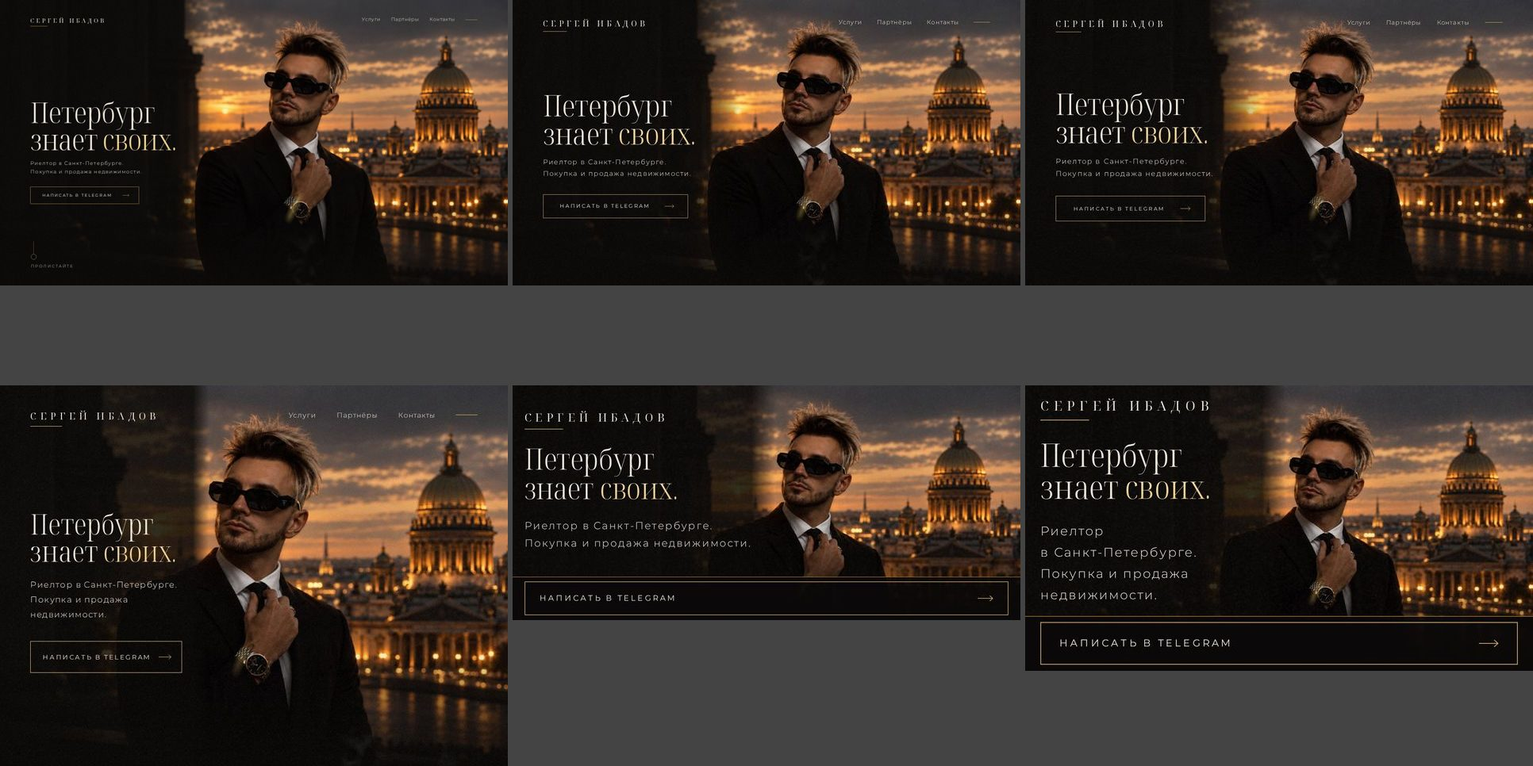
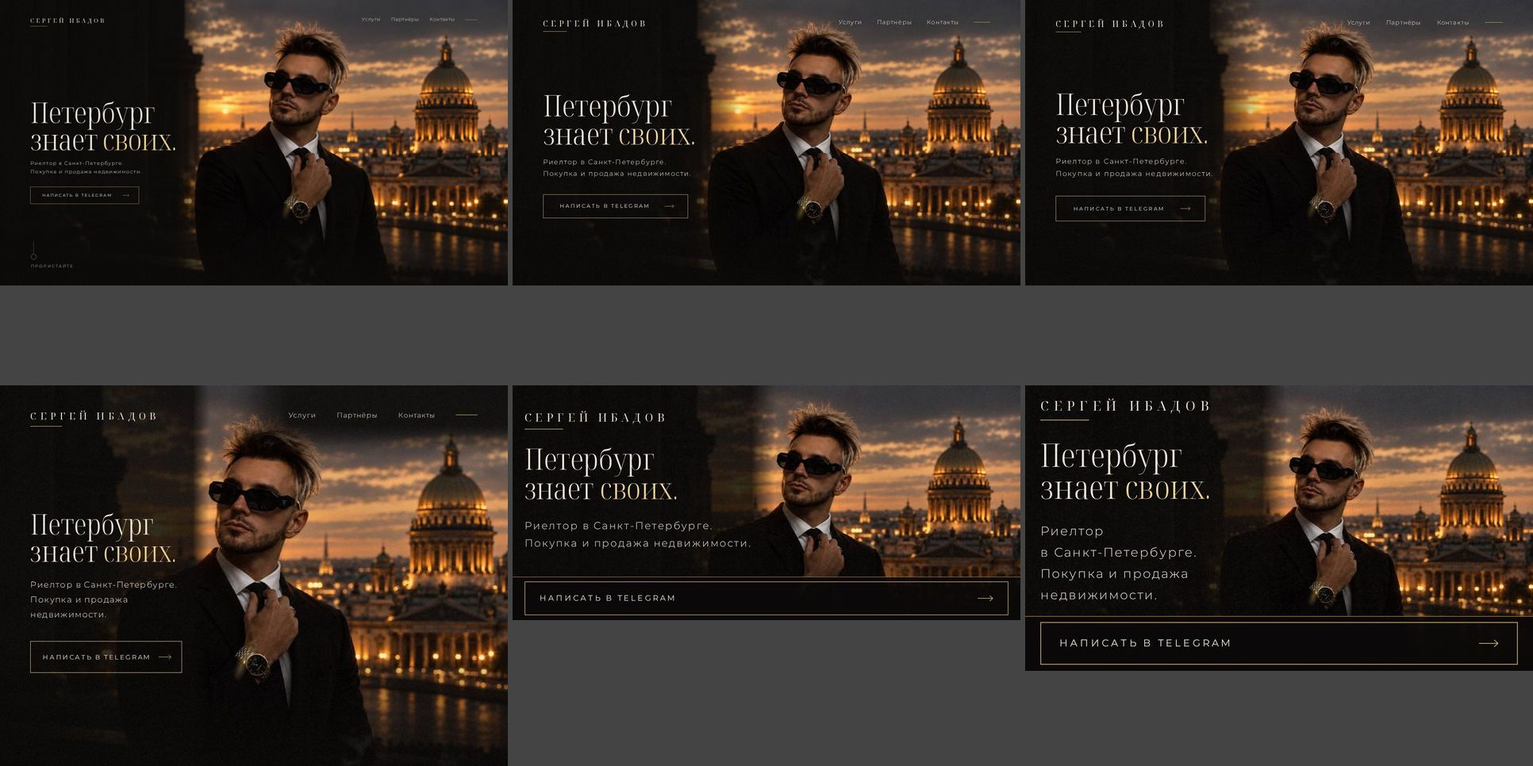
style(design): FINDING-005..008 — the first screen in near-square windows
- Lying down, narrower than 1.55:1: the headline shrinks with the room
  before the face, never under 1.5rem, keeping its two lines' height; in
  windows under 641px the lead wraps before the face too.
- Standing, too short for its width: the phone picture narrows, centred,
  until the face ends 40px above the name; its sides melt into ink, never
  under half the screen. The text never starts higher than that.
- Browser zoom of 200%+ on a near-square window: the text stands under
  the face across the screen.
- Narrow low windows: the hair reached the menu (2.7:1); a scrim from the
  top right corner keeps it at 12.8:1 or more.
- The glint box measures its place in the scene, so it stays on the watch
  in the narrowed phone picture.
- New check tests/e2e/hero-near-square.spec.ts; DESIGN.md rules, Visual
  check report and screenshots updated; the TODO item closed.

Changed region(s): [[0.1553, 0.4969, 0.3416, 0.5901], [0.1863, 0.2484, 0.2174, 0.2795]]

diff --git a/tests/e2e/hero-near-square.spec.ts b/tests/e2e/hero-near-square.spec.ts
@@ -1,0 +1,158 @@
+// The first screen in windows nearly as wide as tall, and on short phones. Lying down, the headline
+// shrinks with the room before the face, never under 1.5rem, still 1.4 times the lead or more.
+// Standing up, the phone picture narrows until the face ends above the text, and the text still
+// fits the screen. Browser zoom of 200% and more leaves no room beside the face: the text stands
+// under it. Narrow low windows put the hair under the menu: the menu keeps 7:1 there.
+import { expect, test, type Page } from '@playwright/test';
+import sharp from 'sharp';
+import { textToFace } from '../../src/blocks/images/catalog';
+import { fmt, gap, inPageImages, layout, open, sceneMarks, type Box } from './helpers';
+
+const LYING = [
+  [768, 560],
+  [768, 600],
+  [768, 700],
+  [768, 760],
+  [800, 700],
+  [900, 800],
+  [1000, 900],
+  [1024, 900],
+  [1024, 1000],
+] as const;
+const STANDING = [
+  [320, 568],
+  [360, 600],
+  [412, 500],
+  [600, 700],
+  [768, 900],
+  [800, 900],
+  [900, 1000],
+  [1000, 1000],
+  [1300, 1400],
+] as const;
+// Window at zoom: 800×700 and 1024×1000 at 200%, 1040×800 at 200%, 800×700 and 1024×900 at 300%.
+const ZOOMED = [
+  [400, 350],
+  [512, 500],
+  [520, 400],
+  [266, 233],
+  [341, 300],
+] as const;
+const MENU = [
+  [768, 520],
+  [800, 600],
+  [800, 700],
+  [880, 600],
+  [1000, 680],
+  [1024, 768],
+] as const;
+
+/** Letter boxes of the first screen's name, headline and lead, line by line. */
+const letters = (page: Page) =>
+  page.evaluate(() =>
+    ['credit', 'headline', 'lead'].flatMap((part) => {
+      // Text nodes only: a block line's own box runs the column's full width.
+      const walk = document.createTreeWalker(document.querySelector(`[data-scene="hero"] [data-part="${part}"]`)!, NodeFilter.SHOW_TEXT);
+      const out: { part: string; x0: number; y0: number; x1: number; y1: number }[] = [];
+      for (let n = walk.nextNode(); n; n = walk.nextNode()) {
+        if (!n.textContent!.trim()) continue;
+        const r = document.createRange();
+        r.selectNodeContents(n);
+        for (const q of r.getClientRects()) if (q.width > 1) out.push({ part, x0: q.left, y0: q.top, x1: q.right, y1: q.bottom });
+      }
+      return out;
+    }),
+  );
+
+const clearOfFace = async (page: Page) => {
+  const l = await layout(page);
+  const marks = sceneMarks('hero', l.portrait, await page.evaluate(inPageImages, 'hero'));
+  const boxes = await letters(page);
+  expect(boxes.length).toBeGreaterThan(0);
+  for (const b of boxes) {
+    expect.soft(gap(b, marks.face!), `${b.part} (${fmt(b)}) to the face (${fmt(marks.face!)}), px`).toBeGreaterThanOrEqual(textToFace.anywhere - 0.01);
+  }
+  return { l, marks };
+};
+
+for (const [w, h] of LYING) {
+  test.describe(`${w}x${h}`, () => {
+    test.use({ viewport: { width: w, height: h }, reducedMotion: 'reduce' });
+    test('lying down: the text clear of the face, the headline still the largest', async ({ page }) => {
+      await open(page);
+      const { l } = await clearOfFace(page);
+      expect(l.portrait).toBe(false);
+      const [headline, lead] = await page.evaluate(() =>
+        ['headline', 'lead'].map((p) => Number.parseFloat(getComputedStyle(document.querySelector(`[data-scene="hero"] [data-part="${p}"]`)!).fontSize)),
+      );
+      expect.soft(headline, 'headline size, px (never under 1.5rem)').toBeGreaterThanOrEqual(24 - 0.01);
+      expect.soft(headline / lead!, 'headline to lead size').toBeGreaterThanOrEqual(1.4);
+    });
+  });
+}
+
+for (const [w, h] of STANDING) {
+  const phone = w < 768;
+  test.describe(`${w}x${h}`, () => {
+    test.use({ viewport: { width: w, height: h }, reducedMotion: 'reduce', isMobile: phone, hasTouch: phone });
+    test('standing: the text clear of the face, the picture centred, the first screen one screen tall', async ({ page }) => {
+      await open(page);
+      const { l, marks } = await clearOfFace(page);
+      expect(l.portrait).toBe(true);
+      const hero = l.scenes.find((s) => s.name === 'hero')!;
+      expect.soft(hero.bottom - hero.top, 'first screen height, px').toBeCloseTo(h, 0);
+      for (const f of marks.frames) {
+        expect.soft(f.x0 + f.x1, `phone window (${fmt(f)}) centred: left + right, px`).toBeCloseTo(l.vw, 0);
+        expect.soft(f.y0, 'phone window top, px (pinned to the top)').toBeCloseTo(0, 0);
+      }
+      const inside = (name: string, b: Box) => {
+        const f = marks.frames[1]!;
+        expect.soft(Math.min(b.x0 - f.x0, f.x1 - b.x1, b.y0 - f.y0), `${name} (${fmt(b)}) inside the picture (${fmt(f)}), px`).toBeGreaterThanOrEqual(0);
+      };
+      inside('face', marks.face!);
+      inside('dome', marks.dome!);
+    });
+  });
+}
+
+for (const [w, h] of ZOOMED) {
+  test.describe(`${w}x${h}`, () => {
+    test.use({ viewport: { width: w, height: h }, reducedMotion: 'reduce' });
+    test('browser zoom: the text under the face, clear of it', async ({ page }) => {
+      await open(page);
+      await clearOfFace(page);
+    });
+  });
+}
+
+// WCAG relative luminance; the 99th percentile under each link with its letters hidden.
+const linear = (v: number) => (v / 255 <= 0.04045 ? v / 255 / 12.92 : ((v / 255 + 0.055) / 1.055) ** 2.4);
+const luminance = (r: number, g: number, b: number) => 0.2126 * linear(r) + 0.7152 * linear(g) + 0.0722 * linear(b);
+const TEXT = luminance(0xed, 0xe5, 0xd8);
+
+for (const [w, h] of MENU) {
+  test.describe(`${w}x${h}`, () => {
+    test.use({ viewport: { width: w, height: h }, reducedMotion: 'reduce' });
+    test('narrow low window: the menu reads at 7:1 over the hair', async ({ page }) => {
+      await open(page);
+      const links = await page.evaluate(() =>
+        [...document.querySelectorAll('[data-scene="hero"] [data-part="nav"] a')].map((a) => {
+          const r = document.createRange();
+          r.selectNodeContents(a);
+          const q = r.getBoundingClientRect();
+          return { text: a.textContent!.trim(), x: q.x, y: q.y, width: q.width, height: q.height };
+        }),
+      );
+      expect(links.length).toBe(3);
+      await page.addStyleTag({ content: '[data-part="nav"] a { color: transparent !important; transition: none !important }' });
+      for (const { text, ...clip } of links) {
+        const { data, info } = await sharp(await page.screenshot({ clip })).raw().toBuffer({ resolveWithObject: true });
+        const n = info.width * info.height;
+        const l = new Float64Array(n);
+        for (let i = 0; i < n; i++) l[i] = luminance(data[i * info.channels]!, data[i * info.channels + 1]!, data[i * info.channels + 2]!);
+        l.sort();
+        expect.soft((TEXT + 0.05) / (l[Math.floor(0.99 * (n - 1))]! + 0.05), `«${text}» contrast`).toBeGreaterThanOrEqual(7);
+      }
+    });
+  });
+}

diff --git a/src/blocks/accents/motion.ts b/src/blocks/accents/motion.ts
@@ -112,20 +112,22 @@ export function startAccents({ heroReady = Promise.resolve() }: AccentsOptions =
     });
   });
 
-  const measure = (g: Glint) => {
+  /** An element's place in its scene (the hero's phone frame may stand off the scene's edge). */
+  const offset = (g: Glint, el: El | null) => {
     let x = 0;
     let y = 0;
-    let e: El | null = g.layer;
-    while (e && e !== g.section) {
+    for (let e = el; e && e !== g.section; e = e.offsetParent as El | null) {
       x += e.offsetLeft;
       y += e.offsetTop;
-      e = e.offsetParent as El | null;
     }
-    g.ox = x;
-    g.oy = y;
+    return [x, y] as const;
+  };
+  const measure = (g: Glint) => {
+    [g.ox, g.oy] = offset(g, g.layer);
     g.ow = g.layer?.offsetWidth ?? 0;
-    g.cx = g.box.offsetLeft + g.box.offsetWidth / 2;
-    g.cy = g.box.offsetTop + g.box.offsetHeight / 2;
+    const [bx, by] = offset(g, g.box);
+    g.cx = bx + g.box.offsetWidth / 2;
+    g.cy = by + g.box.offsetHeight / 2;
   };
   /**
    * The box over the watch takes the same scale and shift the camera gives the watch's layer:

diff --git a/docs/designs/hero/visual-check.md b/docs/designs/hero/visual-check.md
@@ -5,10 +5,9 @@
 ## Итог
 
 - Первый экран повторяет кадр заказчика: композиция, цвет, шрифты, кнопка в золотой рамке. Тексты слово в слово по Брифу.
-- Найдено четыре дефекта. Все исправлены и проверены на скриншотах.
-- Один дефект оставлен: почти квадратные окна компьютера, подробно в разделе «Что остаётся».
+- Найдено восемь дефектов. Все исправлены и проверены на скриншотах. Четыре из них — в почти квадратных окнах и на коротких телефонах, пункты 5–8.
 - Оценка дизайна: B+ до правок, A− после. Шаблонности нет: A до и после.
-- Контраст текста первого экрана не ниже 7,6 к 1 на всех 13 экранах. Надпись «Пропустить» за весь фильм на компьютере и телефоне — не ниже 9,9 к 1.
+- Контраст текста первого экрана не ниже 7,6 к 1 на всех 13 экранах, на почти квадратных окнах и коротких телефонах — не ниже 8,0 к 1. Меню в узком окне — не ниже 12,8 к 1. Надпись «Пропустить» за весь фильм на компьютере и телефоне — не ниже 9,9 к 1.
 
 ## Как смотрели
 
@@ -23,6 +22,12 @@
 - Спокойную версию снимали на компьютере и на телефоне.
 - Расстояние от титра фильма до имени мерили на 12 размерах телефона и планшета.
 - Перенос подзаголовка проверили на 22 размерах окон лёжа.
+- Почти квадратные окна и короткие телефоны:
+  - лёжа: окна шириной 768–1100px и высотой 560–1000px;
+  - стоймя: окна от 300×560 до 1300×1400, среди них 360×600 и 320×568;
+  - увеличение браузера 125–300% для окон 800×700, 900×800, 1024×900, 1024×1000, 1000×1000 и 1280×1024;
+  - контраст меню — на окнах лёжа от 768×520 до 1920×1080.
+- Мерили буквы, а не блоки: расстояние от каждой строки имени, заголовка и подзаголовка до лица.
 - Кадры заказчика с балконом и со столом поставили рядом со страницей.
 - Второе мнение: другая модель и отдельный проверяющий прочли код ветки.
 
@@ -52,7 +57,28 @@
 4. В окне лёжа уже 768px имя стояло слева вверху, как на компьютере, хотя меню там уже нет.
    - По дизайн-системе на телефоне лёжа имя стоит над заголовком. Теперь так.
 
-Правила 1, 2 и 3 дописаны в дизайн-систему. Правило 2 — ещё и в Бриф, раздел «Вступление».
+5. В почти квадратном окне лёжа заголовок доходил до лица.
+   - Где: окна от 768×560 до 1024×1000. «Петербург» и «знает своих.» шли по лицу, расстояние 0px.
+   - Теперь заголовок мельчает вместе с местом до лица, но не меньше 1,5rem. Так он всё ещё в 1,4 раза крупнее подзаголовка.
+   - Пример: в 800×700 заголовок 34px вместо 47px, в 1024×1000 — 35px вместо 56px. Он держит высоту двух строк, и подзаголовок к лицу не поднимается.
+   - В окне ниже 641px подзаголовок тоже переносится до лица.
+   - Расстояние от заголовка до лица теперь не меньше 37px, обычно 42px и больше. От подзаголовка — не меньше 34px.
+   - Экраны из Брифа не изменились: в 1024×768 заголовок как был.
+6. В почти квадратном окне стоймя и на коротком телефоне имя и заголовок ложились на лицо.
+   - Где: окна от 412×500 до 1000×1000 и 1300×1400, телефоны 360×600 и 320×568. Там кадр во всю ширину, и лицо опускается до текста.
+   - Теперь кадр сужается по центру, пока лицо не кончится за 40px до имени. Бока кадра тают в чёрное. Уже половины экрана кадр не бывает.
+   - Имя теперь в 38px от лица, заголовок — в 82px и дальше. Первый экран по-прежнему в один экран, прокрутки нет.
+   - Экраны Брифа стоймя не изменились: 360×780, 375×667, 390×844, 430×932, 768×1024, 820×1180.
+   - Блик на часах идёт за суженным кадром: расхождение не больше 0,3px.
+7. В узком окне лёжа меню лежало на волосах Сергея.
+   - Где: окна шириной 768–1000px и высотой до 760px. Контраст «Услуги» падал до 2,7 к 1, по правилу сайта нужно 7 к 1.
+   - Теперь в окне уже 1,55 к 1 под меню затемнение от верхнего и правого края экрана. За меню оно плавно сходит на нет. Контраст не ниже 12,8 к 1.
+   - На широких экранах меню как на кадре заказчика, без затемнения.
+8. При увеличении браузера 200–300% на почти квадратном окне текст ложился на лицо.
+   - Где: 800×700, 900×800, 1024×1000 и 1040×800 при 200% и больше, 1024×900 — при 250% и больше. Рядом с лицом не было места даже на одно слово: текст шёл по слову в строку, по лицу, расстояние 0–27px.
+   - Теперь текст стоит под лицом во всю ширину, на затемнении. Расстояние до лица не меньше 38px. Первый экран прокручивается.
+
+Правила 1, 2, 3 и 5–8 дописаны в дизайн-систему. Правило 2 — ещё и в Бриф, раздел «Вступление».
 
 ## Оставлено как есть
 
@@ -64,13 +90,17 @@
 
 ## Что остаётся
 
-- Почти квадратные окна компьютера, от 800×700 до 1024×1000.
-  - Слово «Петербург» шире колонны текста, и заголовок доходит до лица Сергея.
-  - В узких окнах лёжа, 600–767px, имя и заголовок занимают по две-три строки.
-  - Такие окна бывают, только если окно браузера сузили вручную. Нужно решение о размере заголовка. До выпуска не обязательно.
-- iPhone, Safari и Instagram не проверены: всё снято в Chromium. Поднятие фильма над именем и кнопку после касания покажет приёмка на iPhone.
-- Телефоны стоймя ниже 640px не проверяли. На них фильм поднимается ближе к «Пропустить».
+- iPhone, Safari и Instagram не проверены: всё снято в Chromium. Поднятие фильма над именем, кнопку после касания и суженный кадр покажет приёмка на iPhone.
+- В почти квадратном окне стоймя имя стоит в 38px от лица, а не в 40px. Это допустимо: 40px нужны на экранах Брифа, 32px — везде. На экранах Брифа имя дальше 52px.
+- В почти квадратном окне лёжа уже 768px имя занимает две строки: в одну оно дошло бы до лица.
+- При увеличении 200% и больше первый экран прокручивается. Подзаголовок и часть заголовка видны после прокрутки.
+- При увеличении 300% окна 800×700 надпись кнопки в полосе телефона выходит за её рамку. Это полоса, а не первый экран. На телефоне 320×568 надпись в рамке.
 - Скорость мерили на сервере в той же машине. Первый экран без фильма готов за 0,6 с на компьютере, сдвигов нет. В мобильной сети будет дольше.
+
+Короткие телефоны проверены: 360×600 и 320×568.
+
+- Титр фильма весь фильм стоит ниже «Пропустить»: на 135px и больше в 360×600, на 82px и больше в 320×568.
+- Титр кончается за 23–25px над именем. Имя проявляется под титром.
 
 ## Скриншоты и клипы
 
@@ -80,6 +110,11 @@
 - Пункт 2, телефон 360×780 на 6,8 с: ![Титр и имя до и после](visual-check/finding-002-before-after.jpg)
 - Пункт 3, полоса телефона после касания: ![Кнопка до и после](visual-check/finding-003-before-after.jpg)
 - Пункты 1 и 4, окно 700×600: ![Окно до и после](visual-check/finding-004-before-after.jpg)
+- Пункт 5, окна 800×700 и 1024×1000: ![Почти квадратное окно лёжа до и после](visual-check/finding-005-before-after.jpg)
+- Пункт 6, окна 1000×1000 и 900×1000: ![Почти квадратное окно стоймя до и после](visual-check/finding-006-before-after.jpg)
+- Пункт 6, телефон 360×600: ![Короткий телефон до и после](visual-check/finding-006-phone-before-after.jpg)
+- Пункт 7, окно 880×600: ![Меню до и после](visual-check/finding-007-before-after.jpg)
+- Пункт 8, окна 800×700 и 1024×1000 при увеличении 200%: ![Увеличение браузера до и после](visual-check/finding-008-before-after.jpg)
 
 Как сейчас:
 
@@ -93,6 +128,7 @@
 - Вступление на телефоне: ![Вступление 390×844](visual-check/intro-phone-390x844.jpg)
 - Вступление на телефоне лёжа: ![Вступление 740×360](visual-check/intro-sideways-740x360.jpg)
 - Вступление в узком окне: ![Вступление 700×600](visual-check/intro-narrow-window-700x600.jpg)
+- Вступление на коротком телефоне, титр и «Пропустить»: ![Вступление 360×600](visual-check/intro-short-phone-360x600.jpg)
 - «Пропустить» крупно в самые светлые моменты: ![Пропустить крупно](visual-check/skip-close-ups.jpg)
 - Переход на компьютере: ![Переход 1440×900](visual-check/transition-desktop-1440x900.jpg)
 - Переход на телефоне: ![Переход 390×844](visual-check/transition-phone-390x844.jpg)
@@ -111,7 +147,8 @@
 
 - `paneweb down`, затем `paneweb up` (сборка сайта для проверок), после каждой правки: код выхода 0.
 - `bun test ./tests/html.test.ts`: код выхода 0, 11 прошли.
-- `bunx playwright test tests/e2e/hero-lead.spec.ts tests/e2e/nojs.spec.ts tests/e2e/seam.spec.ts tests/e2e/design-check.spec.ts --project layout`: код выхода 0, 41 прошли.
-- `bunx playwright test tests/e2e/intro.spec.ts tests/e2e/calm.spec.ts --no-deps`: код выхода 0, 35 прошли.
-- `bunx playwright test tests/e2e/intro.spec.ts --no-deps -g "portrait|reads at 7:1|whole film" --repeat-each 2`: код выхода 0, 8 прошли. Новая проверка не плавает.
+- `bun run test:unit`: код выхода 0, 186 прошли.
+- `bunx playwright test tests/e2e/hero-near-square.spec.ts tests/e2e/hero-lead.spec.ts tests/e2e/nojs.spec.ts tests/e2e/seam.spec.ts tests/e2e/design-check.spec.ts tests/e2e/phone.spec.ts tests/e2e/scripts.spec.ts --project layout`: код выхода 0, 91 прошли.
+- `bunx playwright test tests/e2e/intro.spec.ts tests/e2e/calm.spec.ts tests/e2e/smooth.spec.ts --no-deps`: код выхода 0, 36 прошли.
+- `bunx playwright test tests/e2e/hero-near-square.spec.ts --project layout` на коде до правок 5–8: код выхода 1, 23 из 24 тогдашних проверок упали. Новая проверка ловит эти дефекты.
 - `bunx tsc --noEmit`: код выхода 1. Четыре старые ошибки `TS2307` в `src/blocks/card/index.ts` и `src/blocks/contact/index.ts`. Эти файлы ветка не трогала. В изменённых файлах ошибок нет.

diff --git a/DESIGN.md b/DESIGN.md
@@ -212,6 +212,8 @@ components:
 - Слово через дефис не разрываем, предлог из одной буквы не отрываем от следующего слова. В узкой колонке подзаголовок переносится так: «Риелтор / в Санкт-Петербурге.», не «Санкт- / Петербурге.». Исключение — окно лёжа уже 500px (увеличение браузера 250–300%): там колонка уже названия города.
 - `display` и `numeral` на компьютере доходят до 6,75rem и 10rem — сознательно. Страница — плакат и фильм, а не документ.
 - Заголовок первого экрана — две строки, как на кадре заказчика: первое слово, затем остальные. Ему можно шире `text-column`, до 48rem, но не ближе 40px к лицу.
+- В окне лёжа уже 1,55 к 1 заголовок мельчает вместе с местом до лица: его длинная строка «знает своих.» кончается за 40px до лица. Меньше 1,5rem он не бывает: так он всё ещё в 1,4 раза крупнее подзаголовка. Высоту двух строк он держит, и подзаголовок к лицу не поднимается.
+- В таком окне ниже 641px подзаголовок тоже переносится до лица.
 - `nav` — меню первого экрана, строчными, разрядка 0,08em.
 - Курсив не используем. Акцент делают размер и место в кадре.
 
@@ -240,12 +242,14 @@ components:
 - Заголовок, подзаголовок и кнопка — по центру высоты, в колонке слева. Подзаголовок — две строки: кто он, потом чем занимается.
 - Подсказка «Пролистайте» внизу слева: линия `gold-deep`, кружок `text-muted`, подпись `label`. Только на экранах от 800px высотой.
 - На телефоне лёжа меню и подсказки нет, имя стоит над заголовком.
+- Увеличение браузера от 200% на почти квадратном окне (лёжа ниже 501px, не шире 4:3): рядом с лицом нет места даже на одно слово. Текст стоит под лицом, во всю ширину, на затемнении. Первый экран прокручивается.
 
 Сцена «Купить / Продать» в широкой схеме — кадр со столом от левого края. Колонна текста кончается за 40px до часов.
 
 Вертикальная схема:
 
 - Отдельная вертикальная композиция из тех же слоёв. Сергей сверху или по центру, текст в нижней трети.
+- На первом экране окна телефона во всю ширину, прижаты к верху. Если экран низок для своей ширины (почти квадратное окно, короткий телефон), кадр сужается по центру, пока лицо не кончится за 40px до имени. Бока кадра тают в `ink`. Уже половины экрана кадр не бывает: дальше первый экран прокручивается, а текст всё равно начинается за 40px под лицом.
 - Меню и подсказки «Пролистайте» нет: имя стоит над заголовком.
 - Поля `gutter-phone` на телефоне, `gutter-desktop` на планшете.
 - На планшете стоймя полосы нет: кнопка стоит в первом экране и финале.
@@ -314,7 +318,8 @@ components:
 - Только на первом экране, в широкой схеме, справа вверху. На телефоне, в окне уже 768px и в вертикальной схеме меню нет.
 - Три ссылки `nav` цвета `text` на сцены страницы: «Услуги», «Партнёры», «Контакты». За ними линия `gold` 44px.
 - Наведение: текст `gold-bright`. Фокус — как у кнопки. Высота ссылки не меньше 44px.
-- Над небом кадра контраст `text` не ниже 8,2 к 1: затемнение не нужно.
+- Над небом кадра контраст `text` не ниже 7,6 к 1: затемнение не нужно.
+- В окне уже 1,55 к 1 к меню подходят волосы Сергея. Там под меню затемнение `ink` 0,85 от верхнего и правого края экрана. За меню оно плавно сходит на нет: на 120px влево и на 64px вниз. Контраст меню там не ниже 12,8 к 1.
 
 **Подсказка «Пролистайте»**: линия `gold-deep` 48px, кружок `text-muted` 21px, подпись `label` цвета `text-muted`. Не ссылка, экранный чтец её не читает.
 
@@ -460,3 +465,4 @@ components:
   - Стык первого экрана и «Купить / Продать» — растворение по прокрутке вместо склейки через `ink`.
   - Вступление — весь фильм заказчика до его собственного растворения (7,0 с), при каждом открытии страницы. Правило «один раз на браузер» и предел 5 с сняты. Кнопка первого экрана на компьютере ждёт конца фильма, на телефоне полоса с кнопкой видна с первого кадра.
 - 8 октября 2026, дизайн после объёма. «Пропустить» — кнопка для экранного чтеца и голоса, с затемнением под подписью. Прежняя подпись была скрыта от них и терялась на огнях фильма.
+- 8 октября 2026, визуальная проверка. Почти квадратные окна: заголовок первого экрана мельчает до места перед лицом, вертикальный кадр сужается, при сильном увеличении браузера текст встаёт под лицо. В узком окне под меню затемнение.

diff --git a/TODOS.md b/TODOS.md
@@ -9,12 +9,3 @@
 - Заголовок и подзаголовок с кадра заказчика («Больше, чем недвижимость.», «Эксклюзивные объекты…») Бриф запретил. Новые слова согласуйте с заказчиком.
 
 Анимация и цветокоррекция от заказчика сделаны 8 октября 2026: фильм во вступлении при каждом открытии, растворение первого экрана во вторую сцену, его цветокоррекция и шрифты по его кадрам.
-
-## Первый экран в почти квадратном окне
-
-Не начато. Средняя важность, вёрстка.
-
-- В окнах компьютера от 800×700 до 1024×1000 слово «Петербург» шире колонны текста, заголовок доходит до лица Сергея.
-- В узких окнах лёжа, 600–767px, имя и заголовок занимают по две-три строки.
-- Такие окна бывают, только если окно браузера сузили вручную. Найдено визуальной проверкой 8 октября 2026, раздел «Что остаётся» в [отчёте](docs/designs/hero/visual-check.md).
-- Нужно решение о размере заголовка для таких окон. Проверка: `tests/e2e/hero-lead.spec.ts` уже меряет расстояние подзаголовка до лица; заголовку нужна такая же.
